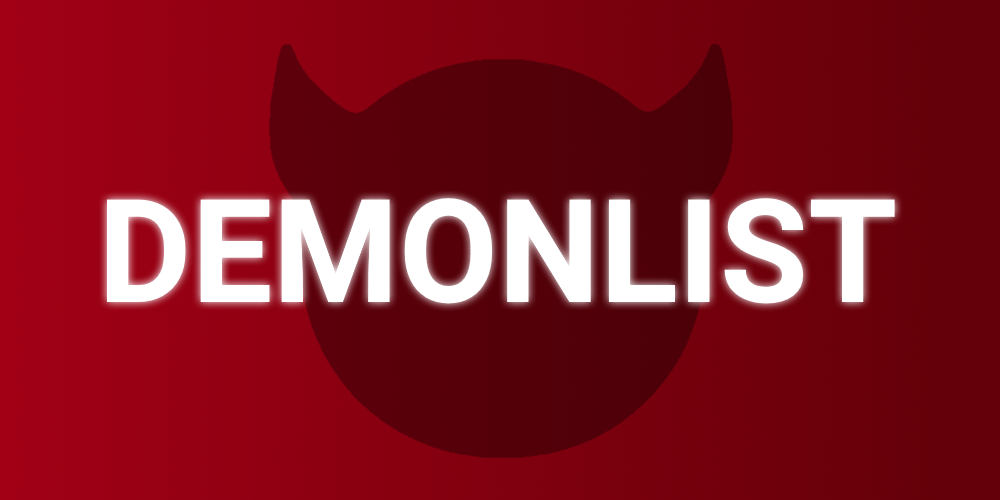
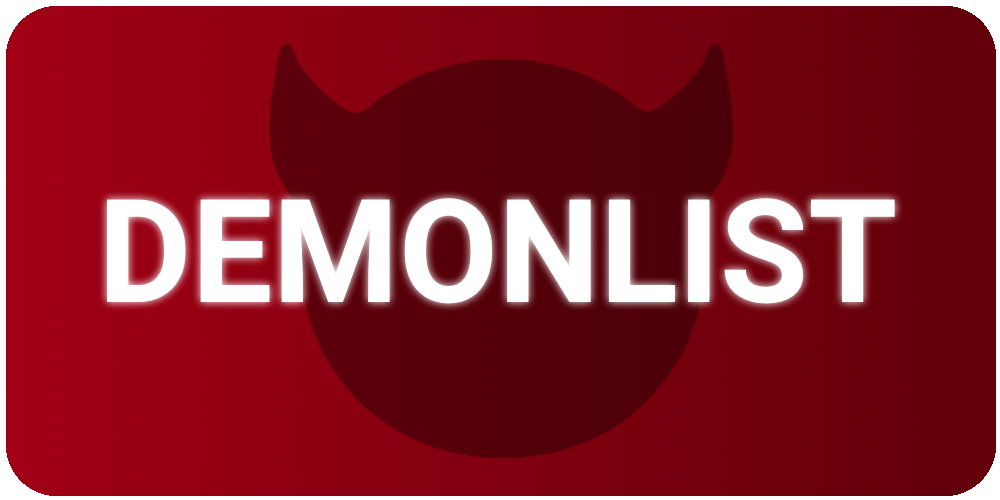
rounded corners

Changed region(s): [[0.0, 0.0, 1.0, 1.0]]

diff --git a/Views/HomeView.xaml b/Views/HomeView.xaml
@@ -351,6 +351,10 @@
 
             <Grid HorizontalAlignment="Center"
                   Margin="0,20,0,0">
+                <Grid.RowDefinitions>
+                    <RowDefinition Height="71*"/>
+                    <RowDefinition Height="21*"/>
+                </Grid.RowDefinitions>
                 <Grid.ColumnDefinitions>
                     <ColumnDefinition Width="Auto"/>
                     <ColumnDefinition Width="12"/>
@@ -359,7 +363,7 @@
 
                 <Button Grid.Column="0"
                         Style="{StaticResource DemonCardButtonStyle}"
-                        Click="OpenDemonlist_Click">
+                        Click="OpenDemonlist_Click" Grid.ColumnSpan="3" Margin="0,0,210,0" Grid.RowSpan="2">
                     <Image Source="/assets/demonlist.png"
                            Width="188"
                            Height="94"
@@ -370,7 +374,7 @@
 
                 <Button Grid.Column="2"
                         Style="{StaticResource ToolsCardButtonStyle}"
-                        Click="OpenTools_Click">
+                        Click="OpenTools_Click" Grid.RowSpan="2">
                     <Image Source="/assets/tools.png"
                            Width="188"
                            Height="94"
